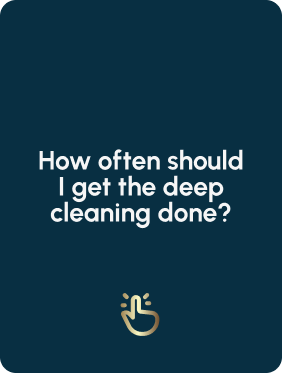
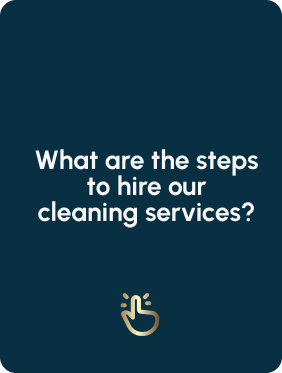
alteracoes1 24-05

Changed region(s): [[0.1135, 0.3834, 0.9362, 0.6193]]

diff --git a/index.html b/index.html
@@ -30,13 +30,14 @@
           <div class="menu-links box">
             <div class="nonebar">
               <img src="./assets/JNNunes-Logo.png" alt="" class="logo-m" draggable="false">
+              <a class="callnow callw" href="tel:+16148495782">Call now!</a>
             </div>
             <div class="menu-linksbtn">
               <ul>
                 <li><a href="#"> Home </a></li>
                 <li><a href="#services"> Services </a></li>
                 <li><a href="#about"> About </a></li>
-                <li><a href="#portfolio"> Before & After </a></li>
+                <li><a href="#portfolio"> Gallery </a></li>
                 <li><a href="#reviews"> Reviews </a></li>
                 <li><a href="#faq"> FAQ </a></li>
               </ul>
@@ -282,7 +283,7 @@
                   <path d="M80.1764 6.10352e-05L82.2302 6.32091H88.8763L83.4995 10.2274L85.5533 16.5483L80.1764 12.6418L74.7996 16.5483L76.8534 10.2274L71.4765 6.32091H78.1227L80.1764 6.10352e-05Z" fill="#E8CD61"/>
                   <path d="M103.853 6.10352e-05L105.907 6.32091H112.553L107.176 10.2274L109.23 16.5483L103.853 12.6418L98.4763 16.5483L100.53 10.2274L95.1533 6.32091H101.799L103.853 6.10352e-05Z" fill="#E8CD61"/>
                   </svg>
-                  <p>This was the best cleaning I’ve ever received for my home. I’ve used at least four different places and now I am a regular customer with J&N! Excellent work and satisfaction is guaranteed.
+                  <p>This was the best cleaning I've ever received for my home. I've used at least four different places and now I am a regular customer with J&N! Excellent work and satisfaction is guaranteed.
                   </p>
                   <h2>Alisha Lloyd</h2>
                 </div>
@@ -296,7 +297,7 @@
                   <path d="M80.1764 6.10352e-05L82.2302 6.32091H88.8763L83.4995 10.2274L85.5533 16.5483L80.1764 12.6418L74.7996 16.5483L76.8534 10.2274L71.4765 6.32091H78.1227L80.1764 6.10352e-05Z" fill="#E8CD61"/>
                   <path d="M103.853 6.10352e-05L105.907 6.32091H112.553L107.176 10.2274L109.23 16.5483L103.853 12.6418L98.4763 16.5483L100.53 10.2274L95.1533 6.32091H101.799L103.853 6.10352e-05Z" fill="#E8CD61"/>
                   </svg>
-                  <p>J&N Nunes did a deep clean of my house and as a result, I will be scheduling monthly cleanings with them! They did an absolutely phenomenal job and went above and beyond. My kitchen appliances look brand new and fixtures that have been in the house longer than we have look better than ever after their cleaning! I can’t say enough positive things. I highly recommend them!
+                  <p>J&N Nunes did a deep clean of my house and as a result, I will be scheduling monthly cleanings with them! They did an absolutely phenomenal job and went above and beyond. My kitchen appliances look brand new and fixtures that have been in the house longer than we have look better than ever after their cleaning! I can't say enough positive things. I highly recommend them!
                   </p>
                   <h2>Gabriela Brito</h2>
                 </div>
@@ -339,7 +340,7 @@
                   <path d="M80.1764 6.10352e-05L82.2302 6.32091H88.8763L83.4995 10.2274L85.5533 16.5483L80.1764 12.6418L74.7996 16.5483L76.8534 10.2274L71.4765 6.32091H78.1227L80.1764 6.10352e-05Z" fill="#E8CD61"/>
                   <path d="M103.853 6.10352e-05L105.907 6.32091H112.553L107.176 10.2274L109.23 16.5483L103.853 12.6418L98.4763 16.5483L100.53 10.2274L95.1533 6.32091H101.799L103.853 6.10352e-05Z" fill="#E8CD61"/>
                   </svg>
-                  <p>Hands down, the best cleaning service we have ever come across. Not only is Talita absolutely lovely to work with, but she has such a high attention to detail and doesn’t leave any inch of our home untouched. I would highly recommend to anyone!
+                  <p>Hands down, the best cleaning service we have ever come across. Not only is Talita absolutely lovely to work with, but she has such a high attention to detail and doesn't leave any inch of our home untouched. I would highly recommend to anyone!
 
                   </p>
                   <h2>Ashley Shalosky</h2>
@@ -409,7 +410,7 @@
                 <img src="./assets/services(1).png" alt="" draggable="false">
               </div>
               <div class="theback">
-                <h6>We recommend deep cleaning at least once every three months or so.</h6>
+                <h6>We offer a complimentary in-home estimate where we discuss the services, determine your needs, and ask questions about your home. Following the in-home estimate, you will receive personalized pricing based on your home's requirements.</h6>
               </div>
             </div>
             </swiper-slide>
@@ -419,7 +420,7 @@
                 <img src="./assets/services(2).png" alt="" draggable="false">
               </div>
               <div class="theback">
-                <h6>We got a full clean-up in that package, making sure everything’s set for moving in or the next peeps.</h6>
+                <h6>We got a full clean-up in that package, making sure everything's set for moving in or the next peeps.</h6>
               </div>
             </div>
             </swiper-slide>
@@ -481,13 +482,11 @@
         <div class="hours">
           <ul>
             <li style="font-weight:bolder;">Our Hours:</li>
-            <li>Mon: 8am - 5pm</li>
-            <li>Tue: 8am - 5pm</li>
-            <li>Wed: 8am - 5pm</li>
-            <li>Thu: 8am - 5pm</li>
-            <li>Fri: 8am - 5pm</li>
-            <li>Sat: Closed</li>
-            <li>Sun: Closed</li>
+            <li>Mon: 8am - 6pm</li>
+            <li>Tue: 8am - 6pm</li>
+            <li>Wed: 8am - 6pm</li>
+            <li>Thu: 8am - 6pm</li>
+            <li>Fri: 8am - 6pm</li>
           </ul>
         </div>
         <div class="footersocials">

diff --git a/css/style.css b/css/style.css
@@ -33,11 +33,30 @@ header {
     align-items: center;
 }
 .nonebar{
-    display: block;
+    display: flex;
+    justify-content: center;
+    align-items: center;
     position: relative;
     background-color: transparent;
     width: 200px;
     height: auto;
+}
+.callnow{
+    display: flex;
+    color: #082F42;
+    background-color: #fff;
+    border-radius: 20px;
+    justify-content: center;
+    font-size: 16px;
+    font-style: normal;
+    font-weight: 700;
+    line-height: 150%;
+    align-items: center;
+    text-align: center;
+    padding: 8px 10px;
+    width: 100px;
+    margin-left: 10px;
+    text-decoration: none;
 }
 .navbar{   
     z-index: 999;
@@ -69,7 +88,7 @@ header {
     display: flex;
     margin: 0 auto;
     justify-content:space-between;
-    width:690px;
+    width:670px;
     border-radius: 35px;
     padding: 16px 44px;
     text-align: center;
@@ -132,7 +151,7 @@ header {
     width: 140px;
     text-decoration: none;
 }
-.socialgettouch:hover{
+.socialgettouch:hover, .callnow:hover{
     text-decoration: none;
     transition: 0.5s ease-out;
     letter-spacing: 0.3px;
@@ -148,8 +167,9 @@ header {
   letter-spacing: 1.2px;
 } 
 .btn-toggle{display: none;}
-@media only screen and (max-width: 1000px) {
-    .nonebar{display: none}
+@media only screen and (max-width: 1200px) {
+    .nonebar img{display: none;}
+    .nonebar{margin-bottom: 20px;}
   .box{
     width: fit-content;
     height: 0vh;
@@ -232,7 +252,7 @@ header {
     padding-top: 50px;
     border-bottom-right-radius: 32px;
     border-bottom-left-radius: 32px;
-    height:400px
+    height:470px
   }
   .menu-linksbtn ul{
     background-color: transparent;
@@ -599,7 +619,7 @@ header {
         width: 100%;
         max-width: 9999px;
         margin: auto;
-        height: 400px;
+        height: 250px;
         background-image: url(../assets/parallaximg-m.png);
         background-attachment: fixed;
         background-position: 100%;
@@ -1174,7 +1194,8 @@ form button:hover{
   border-radius: 30px;
   backface-visibility: hidden;
   overflow: hidden;
-  background: #082F42;
+  background: #fff;
+  border: 3px solid #082F42;
   padding: 40px;
   text-align: center;
   transform: rotateY(180deg);
@@ -1182,9 +1203,9 @@ form button:hover{
 
 /*This block (starts here) is merely styling for the flip card, and is NOT an essential part of the flip code */
 .thefront h6, .theback h6{
-  color: #fff;
+  color: #082F42;
   font-size: 18px;
-  font-weight: 600;
+  font-weight: 800;
   line-height: 120%;
   letter-spacing: 1.5;
   text-align: center;
@@ -1232,7 +1253,7 @@ footer{
 .footergrid{
     display: flex;
     width: 100%;
-    max-width: 800px;
+    max-width: 900px;
     margin: auto;
     justify-content: space-between;
     padding: 50px;
@@ -1242,6 +1263,7 @@ footer{
     justify-content: space-between;
     width: 100%;
     max-width: 500px;
+    gap: 15px;
 }
 .footermenu1{
     display: flex;
@@ -1265,7 +1287,7 @@ footer{
     color: #ffffffaf;
     transition: 0.5s;
 }
-.footermenu1 ul{
+.footermenu1 ul, .hours ul{
     display: flex;
     flex-direction: column;
     justify-content: space-between;
@@ -1301,6 +1323,9 @@ footer{
     display: flex;
     gap: 10px;
     padding-top: 10px;
+}
+.footersocials h6, .footersocials h5{
+    font-size: 16px;
 }
 .footersocials ul a{
     text-decoration: none;
